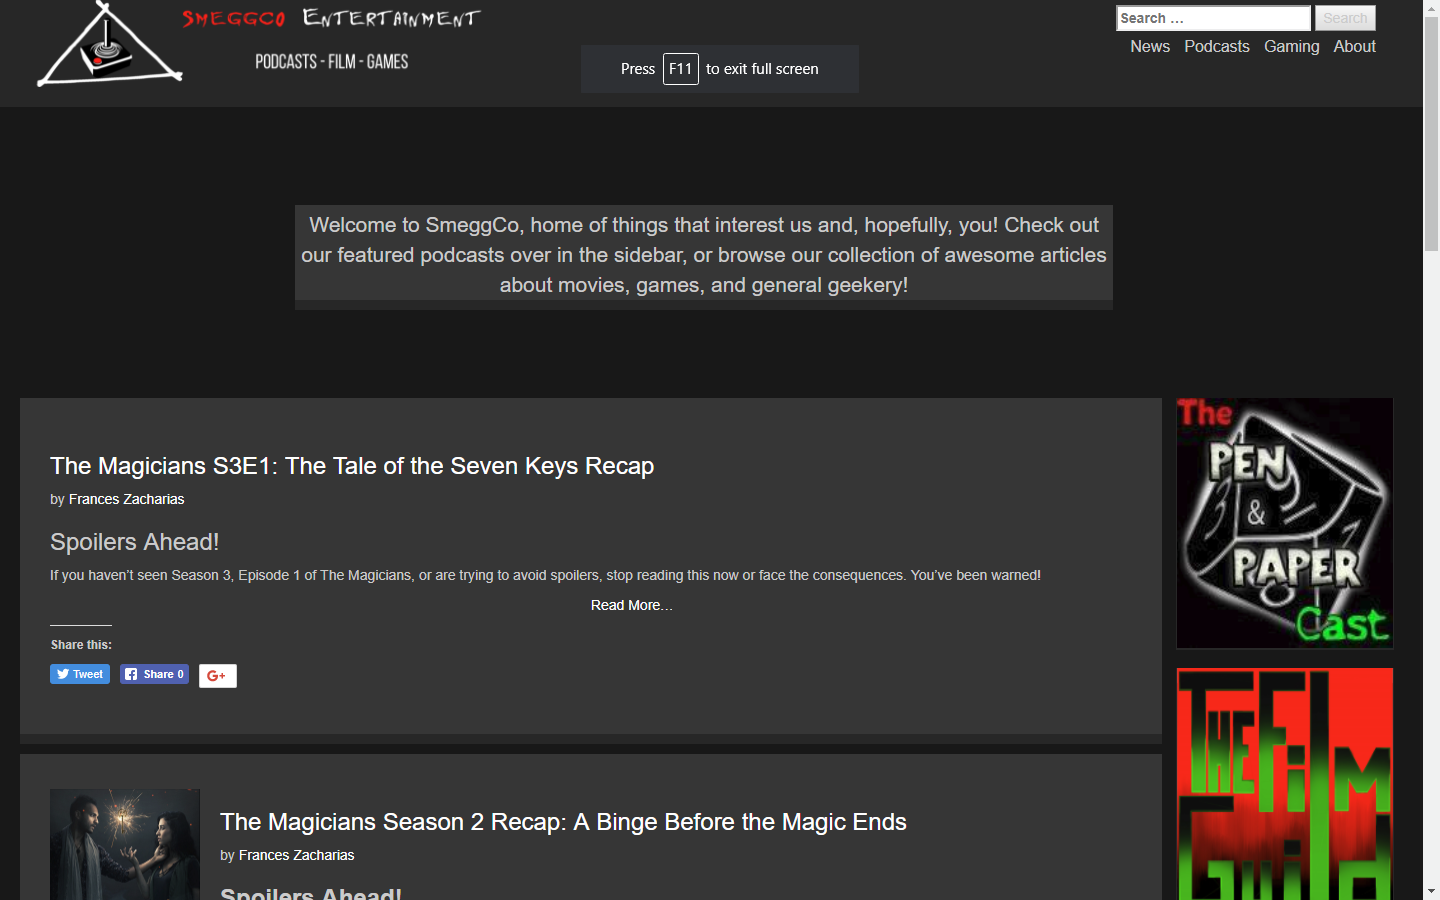
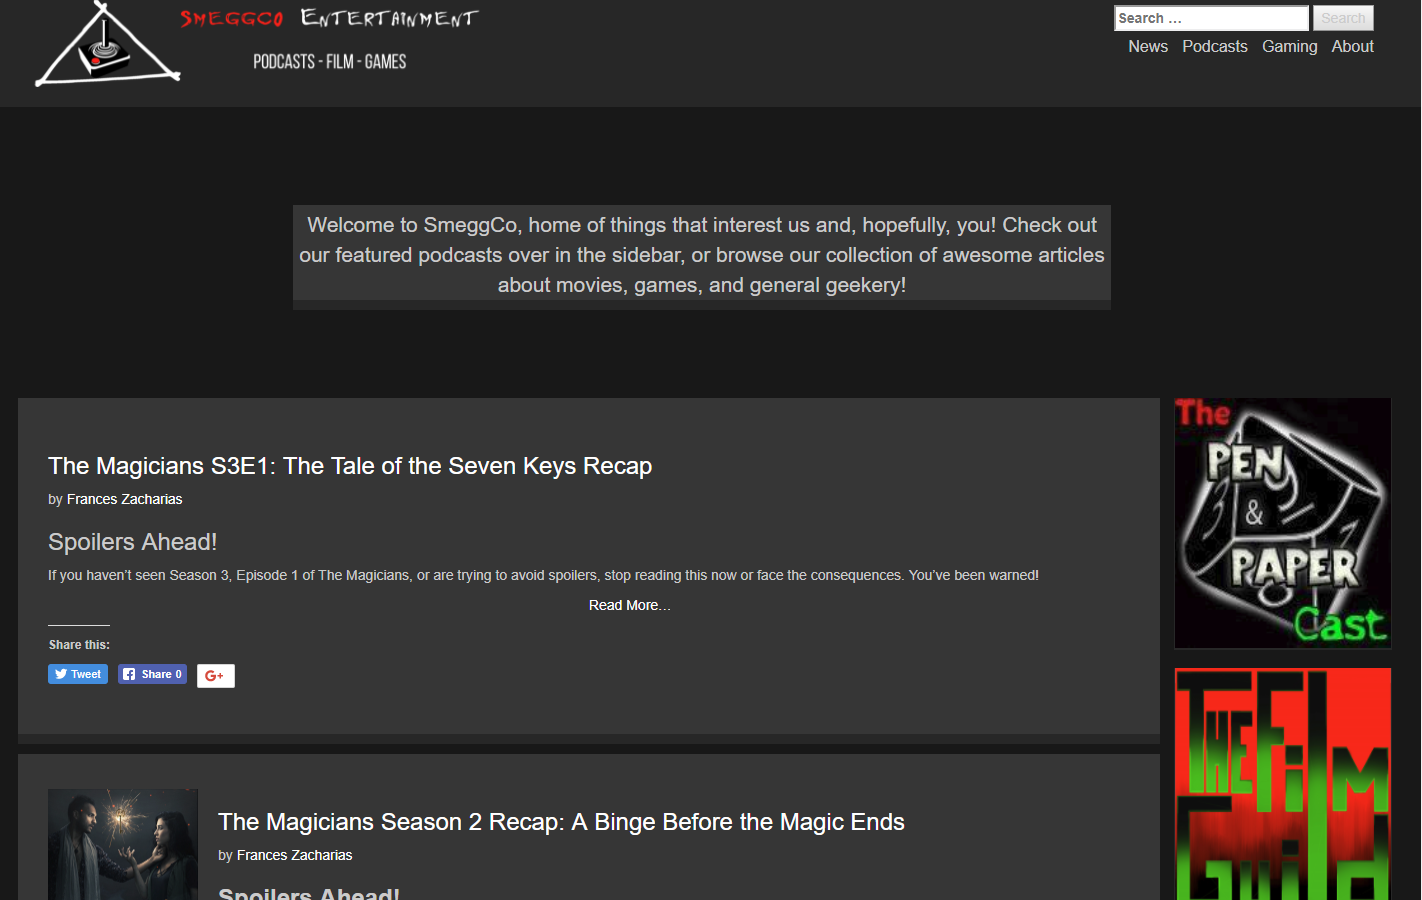
Added example images, adjusted column allocation

diff --git a/index.html b/index.html
@@ -13,9 +13,9 @@
 <body>
   <main class = "container-fluid">
     <div class = 'row contentBlock'>
-      <div class = 'col-lg-4'></div>
+      <div class = 'col-lg-2'></div>
 
-      <div class = 'col-lg-4 paperBlock'>
+      <div class = 'col-lg-8 paperBlock'>
         <div class = 'row'>
           <h1 id = "welcomeText">Howdy! I'm Fred, </h1>
         </div>
@@ -35,6 +35,17 @@
         </div>
         <div class = 'row'>
           <h2>Doodads</h2>
+            <div class = "row">
+              <div class = "col-lg-4 miscBlockPic1">
+                <img src = "img/darkSkyExample.png"/>
+              </div>
+              <div class = "col-lg-4 miscBlockPic2">
+                <img src = "img/pomExample.png"/>
+              </div>
+              <div class = "col-lg-4 miscBlockPic3">
+                <img src = "img/simonExample.png"/>
+              </div>
+            </div>
         </div>
         <div class = 'row'>
           <h2>Certifications</h2>
@@ -44,7 +55,7 @@
         </div>
       </div>
 
-      <div class = 'col-lg-4'></div>
+      <div class = 'col-lg-2'></div>
     </div>
   </main>
 </body>
